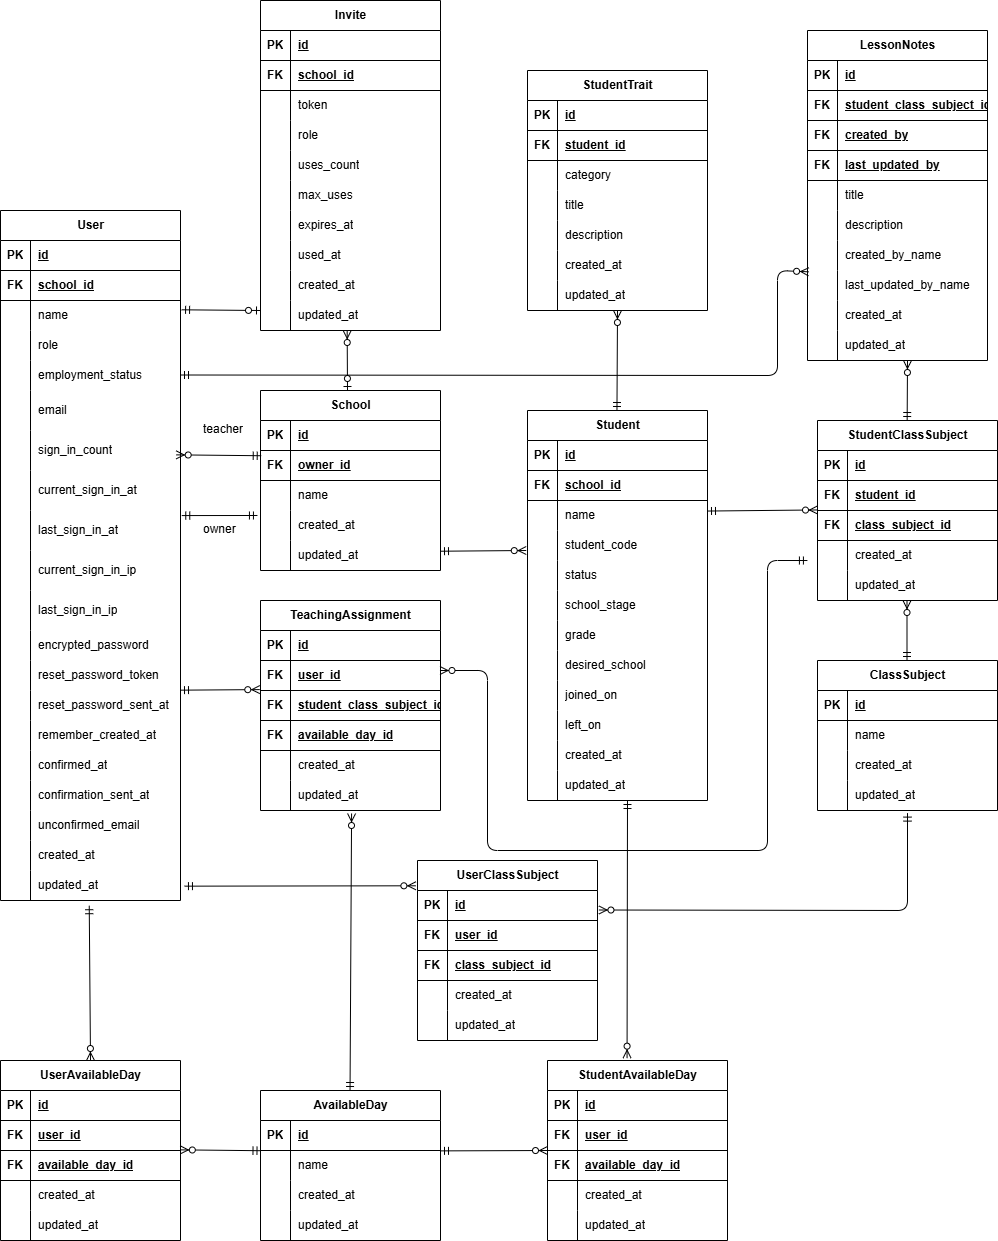
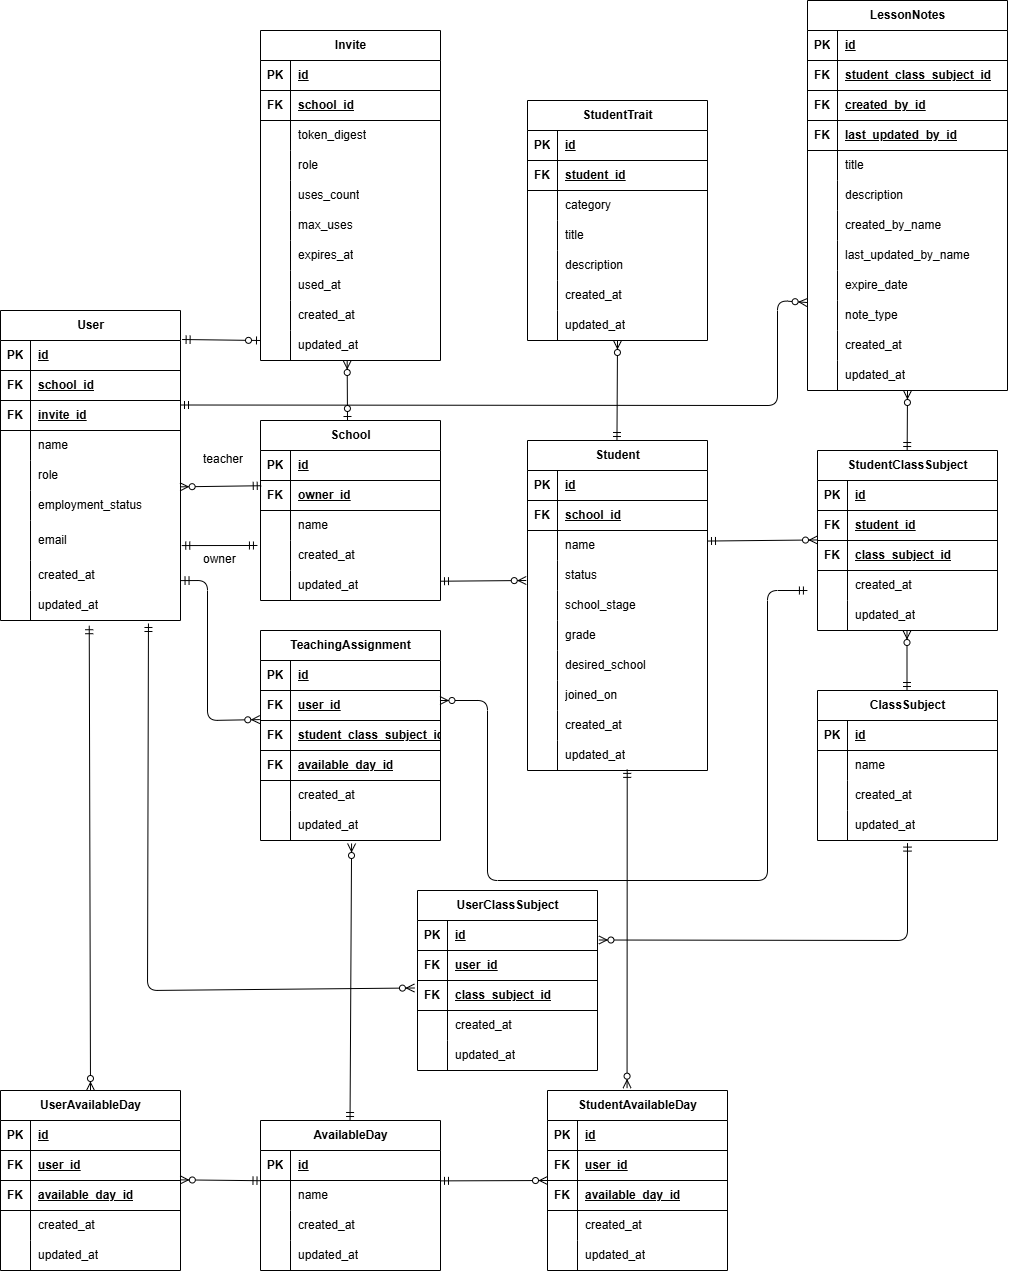
ER図、説明の追加

diff --git a/README.md b/README.md
@@ -1,6 +1,9 @@
 # Juku Cloud
 
 サービスURL: https://www.juku-cloud.com
+リポジトリURL:
+- フロントエンド: https://github.com/Taira0222/juku-cloud-frontend
+- バックエンド: https://github.com/Taira0222/juku-cloud-backend
 
 ![Juku Cloud の宣材写真](./assets/top.png)
 
@@ -223,10 +226,47 @@ juku-cloud-backend/
 
 ---
 ## ER図
+下図は、生徒・講師・授業・特性の関連を中心に設計したER図です。
 
 ![ER図](./assets/ER.png)
 
-テーブルの説明を加える
+### Userテーブル
+塾内の講師・管理者を表すテーブルです。指導担当情報やログイン認証を管理します。
+
+- `User`は管理者と講師の2つの権限を持ち、`enum` の `role` カラムで区別しています。
+- 認証は`Devise Token Auth`を利用し、トークンベースの認証を実装しています。
+- 講師・管理者ともに授業を担当でき、`UserClassSubject`や`UserAvailableDay`を介して担当科目・指導可能日を管理します。
+
+#### 管理者（role = admin）
+- `owner` として `School` を 1:1 で所有します。
+  → 管理者が自分の塾だけを管理できる構成にしています。
+- `Invite` テーブルを介して講師（User）を招待できます。
+
+#### 講師（role = teacher）
+- `School` テーブルと1対多の関係を持ち、1つの学校に複数の講師が所属できます。
+
+### Studentテーブル
+- `Student` は `School` に所属し、`StudentClassSubject` を介して複数の`ClassSubject`を持ちます。
+- `Student` は `StudentTrait` を直接持ち、生徒の特性を管理します。
+- `LessonNote` の場合は、`StudentClassSubject` を介して科目ごとに引き継ぎ事項を管理します。
+- 学年は `小学・中学・高校` の3段階をenumで管理し、`grade` カラムで具体的な学年（1〜3など）を管理します。
+- 自作の`validate`で小学1年生〜高校3年生までの範囲を制限しています。
+
+### StudentTraitテーブル
+このテーブルでは、指導をするうえで把握しておくべき生徒の特性を管理します。
+
+- `StudentTrait` は `Student` に属し、生徒の特性を管理します。
+- `trait_type`はenum で `good`, `careful` の2種類を管理しています。
+
+### LessonNoteテーブル
+このテーブルでは、授業の際に必要な引継ぎ事項を管理します。
+
+- `LessonNote` は `Student` とは直接ではなく、`StudentClassSubject` を介して関連しています。
+- 講師削除時に履歴を保持するため、DB上では `nullify` を採用しています。
+- アプリ側では `created_by` は必須とし、削除後も `created_by_name` に名前を残します。
+- `last_updated_by`は任意とし、上記同様に`last_updated_by_name`カラムを追加しています。
+- `note_type`はenum で `homework`, `lesson`, `other` の3種類を管理しています。
+- `expire_date`はその引継ぎ事項の有効期限を管理し、期限切れの引継ぎ事項はバリデーションで作成・更新できないようにしています。
 
 ---
 ## 設計思想 / こだわり
